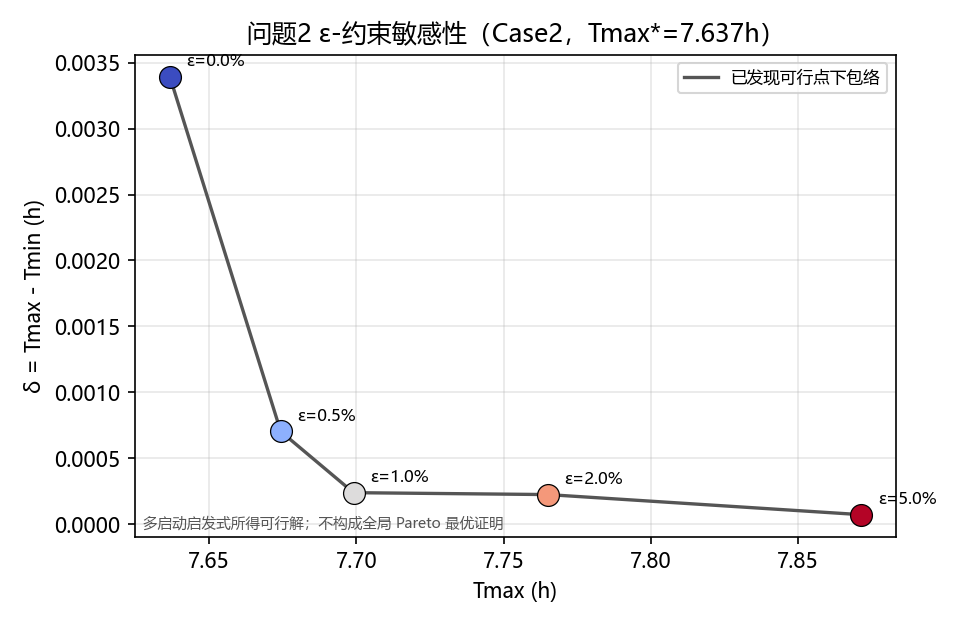
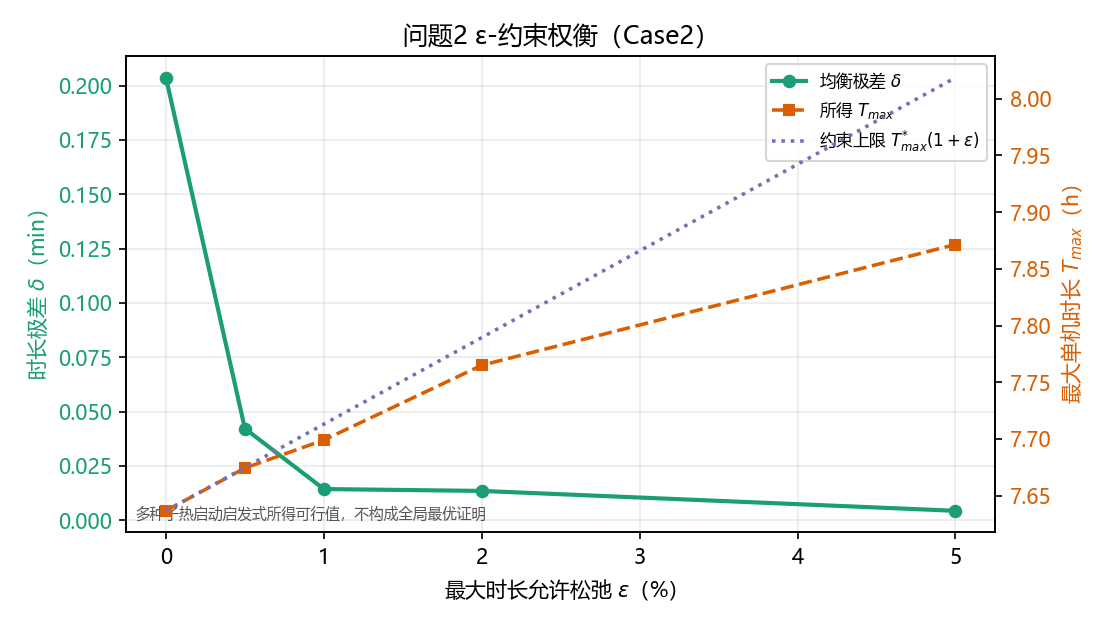
新版图集完善：恢复渐变路线图与ε-约束权衡双轴图，ε=0主口径统一，summary修复Q2 Tmax列，权衡图加启发式免责声明

diff --git a/A 题/code/visualize.py b/A 题/code/visualize.py
@@ -1,16 +1,18 @@
 # -*- coding: utf-8 -*-
 """A 题三问可视化脚本（只读结果文件，不修改求解器）。
-
-生成图片清单（输出到 A 题/figures/）：
-  1. q1_routes_{case}.png     问题1 各算例的无人机巡检路线图
-  2. q1_lowerbound.png        问题1 循环覆盖下界 vs 9h 论证图（4 算例）
-  3. q2_balance_{case}.png    问题2 各机时长均衡对比（Q1 vs Q2 + 容差带）
-  4. q3_spacetime_{case}.png  问题3 时空轨迹图（禁飞区 + 路径 + 等待/绕行）
-  5. q3_timeline_{case}.png   问题3 时间轴（飞行/服务/等待 + 禁飞窗带）
-  6. summary.png              三问 Tmax / delta 汇总对比
+输出目录: A 题/figures/
+  1. q1_routes_{case}.png             问题1 路径方案图（按无人机着色）
+  2. q1_routes_gradient_{case}.png    问题1 路径方案图（按访问次序渐变）
+  3. q1_lowerbound.png                机数下界对比
+  4. q2_balance_{case}.png            问题2 各机时长均衡对比（Q1 vs Q2）
+  5. q2_tradeoff_{case}.png           问题2 Tmax-δ 权衡/敏感性曲线
+  6. q3_spacetime_{case}.png          问题3 时空轨迹图（禁飞区 + 路径 + 等待/绕行）
+  7. q3_timeline_{case}.png           问题3 甘特图（飞行/服务/等待分解）
+  8. summary.png                      三问核心指标总览
 
 用法：python visualize.py [case]   # 不给参数则生成全部
 """
+import json
 import math
 import os
 import sys
@@ -29,6 +31,7 @@ from solve_q2_q3 import (
 from audit_q2_q3 import _timed_leg_trace
 
 FIG_DIR = os.path.join(os.path.dirname(os.path.dirname(os.path.abspath(__file__))), "figures")
+TRADEOFF_DATA = os.path.join(FIG_DIR, "q2", "q2_tradeoff_data.json")
 plt.rcParams["font.sans-serif"] = ["Microsoft YaHei", "SimHei"]
 plt.rcParams["axes.unicode_minus"] = False
 
@@ -112,6 +115,57 @@ def plot_q1_routes(sheets=CASES):
     print("图1 完成：q1_routes_*.png")
 
 
+def plot_q1_routes_gradient(sheets=CASES):
+    """按各无人机的访问次序渐变着色，突出路线方向而非无人机编号。"""
+    cmap = plt.get_cmap("viridis")
+    for sheet in sheets:
+        coords, levels = _coords_and_levels(sheet)
+        routes = load_routes(RESULT1, sheet)
+        fig, ax = plt.subplots(figsize=(6.8, 6.4))
+
+        for lvl, (marker, _) in LVL_STYLE.items():
+            ids = [pid for pid, value in levels.items() if value == lvl]
+            if ids:
+                ax.scatter(
+                    [coords[pid][0] for pid in ids],
+                    [coords[pid][1] for pid in ids],
+                    marker=marker, s=18, c="#d9d9d9", edgecolors="#636363",
+                    linewidths=0.35, alpha=0.75, zorder=2,
+                )
+
+        for route in routes:
+            path = [(0.0, 0.0)] + [coords[pid] for pid in route] + [(0.0, 0.0)]
+            denominator = max(1, len(path) - 2)
+            for step, (start, end) in enumerate(zip(path, path[1:])):
+                ax.annotate(
+                    "", xy=end, xytext=start,
+                    arrowprops=dict(
+                        arrowstyle="->", lw=1.35, color=cmap(step / denominator),
+                        alpha=0.80, shrinkA=0, shrinkB=0,
+                    ),
+                    zorder=3,
+                )
+
+        ax.scatter([0], [0], marker="*", s=260, c="black", zorder=5, label="基地")
+        scalar = matplotlib.cm.ScalarMappable(
+            norm=matplotlib.colors.Normalize(vmin=0.0, vmax=1.0), cmap=cmap
+        )
+        scalar.set_array([])
+        colorbar = fig.colorbar(scalar, ax=ax, fraction=0.040, pad=0.025)
+        colorbar.set_label("该机路径进度（归一化）")
+        ax.set_title(f"问题1 路径访问次序渐变（{sheet}，N={len(routes)}）")
+        ax.set_xlabel("x（坐标单位，1单位=100m）")
+        ax.set_ylabel("y（坐标单位）")
+        ax.set_aspect("equal", adjustable="datalim")
+        ax.grid(alpha=0.25)
+        fig.tight_layout()
+        out = os.path.join(FIG_DIR, "q1", f"q1_routes_gradient_{sheet}.png")
+        os.makedirs(os.path.dirname(out), exist_ok=True)
+        fig.savefig(out, dpi=150)
+        plt.close(fig)
+    print("图1b 完成：q1_routes_gradient_*.png")
+
+
 # ---------------------------- 图2：Q1 下界论证 ----------------------------
 def plot_q1_lowerbound():
     bounds_path = os.path.join(os.path.dirname(FIG_DIR), "docs", "cycle_cover_bounds.txt")
@@ -163,8 +217,7 @@ def plot_q2_balance(sheets=CASES):
         ax.bar([i + w / 2 for i in x], t2, w, color="#1f77b4", label="问题2 方案")
         tmax_star = max(t1)
         ax.axhline(tmax_star, color="gray", linestyle="--", linewidth=1.0)
-        ax.axhspan(tmax_star, tmax_star * 1.01, color="#ffd92f", alpha=0.30)
-        ax.text(n - 0.45, tmax_star * 1.008, "Tmax* 容差带 (+1%)", fontsize=8, va="bottom")
+        ax.text(n - 0.45, tmax_star, "Tmax*（ε=0 上限）", fontsize=8, va="bottom")
         ax.set_xticks(x)
         ax.set_xticklabels([f"UAV{i+1}" for i in x])
         ax.set_ylabel("工作时长 (h)")
@@ -178,6 +231,58 @@ def plot_q2_balance(sheets=CASES):
         fig.savefig(out, dpi=150)
         plt.close(fig)
     print("图3 完成：q2_balance_*.png")
+
+
+def plot_q2_tradeoff(sheets=CASES):
+    """由预先求解并保存的 JSON 数据重绘问题2 ε-约束权衡曲线。"""
+    if not os.path.exists(TRADEOFF_DATA):
+        print(f"问题2权衡图跳过：未找到 {TRADEOFF_DATA}")
+        return
+    with open(TRADEOFF_DATA, "r", encoding="utf-8") as file:
+        data = json.load(file)
+
+    for sheet in sheets:
+        points = data[sheet]["points"]
+        relax_pct = [100.0 * float(point["relax"]) for point in points]
+        delta_min = [60.0 * float(point["delta_h"]) for point in points]
+        tmax_h = [float(point["Tmax_h"]) for point in points]
+        cap_h = [float(point["cap_h"]) for point in points]
+
+        fig, ax_delta = plt.subplots(figsize=(7.4, 4.2))
+        ax_delta.plot(
+            relax_pct, delta_min, "o-", color="#1b9e77", linewidth=2.0,
+            markersize=5.5, label=r"均衡极差 $\delta$",
+        )
+        ax_delta.set_xlabel(r"最大时长允许松弛 $\epsilon$（%）")
+        ax_delta.set_ylabel(r"时长极差 $\delta$（min）", color="#1b9e77")
+        ax_delta.tick_params(axis="y", labelcolor="#1b9e77")
+        ax_delta.grid(alpha=0.25)
+
+        ax_time = ax_delta.twinx()
+        ax_time.plot(
+            relax_pct, tmax_h, "s--", color="#d95f02", linewidth=1.7,
+            markersize=5.0, label=r"所得 $T_{max}$",
+        )
+        ax_time.plot(
+            relax_pct, cap_h, ":", color="#7570b3", linewidth=1.7,
+            label=r"约束上限 $T_{max}^{*}(1+\epsilon)$",
+        )
+        ax_time.set_ylabel(r"最大单机时长 $T_{max}$（h）", color="#d95f02")
+        ax_time.tick_params(axis="y", labelcolor="#d95f02")
+
+        lines1, labels1 = ax_delta.get_legend_handles_labels()
+        lines2, labels2 = ax_time.get_legend_handles_labels()
+        ax_delta.legend(lines1 + lines2, labels1 + labels2, fontsize=8, loc="best")
+        ax_delta.set_title(f"问题2 ε-约束权衡（{sheet}）")
+        ax_delta.text(0.01, 0.02, "多种子热启动启发式所得可行值，不构成全局最优证明",
+                      transform=ax_delta.transAxes, fontsize=7,
+                      color="#555555", va="bottom")
+        fig.tight_layout()
+        out = os.path.join(FIG_DIR, "q2", f"q2_tradeoff_{sheet}.png")
+        os.makedirs(os.path.dirname(out), exist_ok=True)
+        fig.savefig(out, dpi=150)
+        plt.close(fig)
+    print("图3b 完成：q2_tradeoff_*.png")
 
 
 # ---------------------------- 图4：Q3 时空轨迹 ----------------------------
@@ -297,7 +402,7 @@ def plot_summary():
         t2 = [static_metric(r, coords).total / 3600 for r in r2]
         t3 = [dynamic_metric(r, coords, zones).total / 3600 for r in r3]
         rows.append((sheet, len(r1), max(t1), max(t1) - min(t1),
-                     max(t2) - min(t2), max(t3), max(t3) - min(t3)))
+                     max(t2), max(t2) - min(t2), max(t3), max(t3) - min(t3)))
     fig, axes = plt.subplots(1, 2, figsize=(10.5, 3.4))
     x = list(range(4))
     for ax, idx, ylabel, title in (
@@ -308,8 +413,8 @@ def plot_summary():
     ax = axes[0]
     w = 0.26
     ax.bar([i - w for i in x], [r[2] for r in rows], w, color="#9ecae1", label="问题1")
-    ax.bar([i for i in x], [r[2] for r in rows], w, color="#1f77b4", label="问题2")
-    ax.bar([i + w for i in x], [r[5] for r in rows], w, color="#d62728", label="问题3")
+    ax.bar([i for i in x], [r[4] for r in rows], w, color="#1f77b4", label="问题2")
+    ax.bar([i + w for i in x], [r[6] for r in rows], w, color="#d62728", label="问题3")
     ax.axhline(9, color="k", linestyle="--", linewidth=1)
     ax.set_xticks(x)
     ax.set_xticklabels([r[0] for r in rows])
@@ -318,8 +423,8 @@ def plot_summary():
     ax.grid(alpha=0.25, axis="y")
     # delta
     ax = axes[1]
-    ax.bar([i - w / 2 for i in x], [r[4] for r in rows], w, color="#1f77b4", label="问题2 δ")
-    ax.bar([i + w / 2 for i in x], [r[6] for r in rows], w, color="#d62728", label="问题3 δ")
+    ax.bar([i - w / 2 for i in x], [r[5] for r in rows], w, color="#1f77b4", label="问题2 δ")
+    ax.bar([i + w / 2 for i in x], [r[7] for r in rows], w, color="#d62728", label="问题3 δ")
     ax.set_xticks(x)
     ax.set_xticklabels([r[0] for r in rows])
     ax.set_ylabel("δ (h)")
@@ -337,8 +442,10 @@ def main():
     args = sys.argv[1:]
     sheets = args if args else CASES
     plot_q1_routes(sheets)
+    plot_q1_routes_gradient(sheets)
     plot_q1_lowerbound()
     plot_q2_balance(sheets)
+    plot_q2_tradeoff(sheets)
     plot_q3_spacetime(sheets)
     plot_q3_timeline(sheets)
     plot_summary()

diff --git a/A 题/code/solve_q2_q3.py b/A 题/code/solve_q2_q3.py
@@ -46,7 +46,7 @@ DATA2 = os.path.join(BASE_DIR, "附件2.xlsx")
 SUMMARY = os.path.join(BASE_DIR, "docs", "q2_q3_summary.txt")
 EPS = 1e-7
 INF = 1e100
-RELAX_TOL = 0.01  # 问题 2 第二层的 Tmax 容差: 上限 = Tmax* * (1 + RELAX_TOL)
+RELAX_TOL = 0.0  # 正式问题 2 采用 ε=0 主口径；非零容差仅用于权衡/敏感性分析
 
 
 @dataclass(frozen=True)
